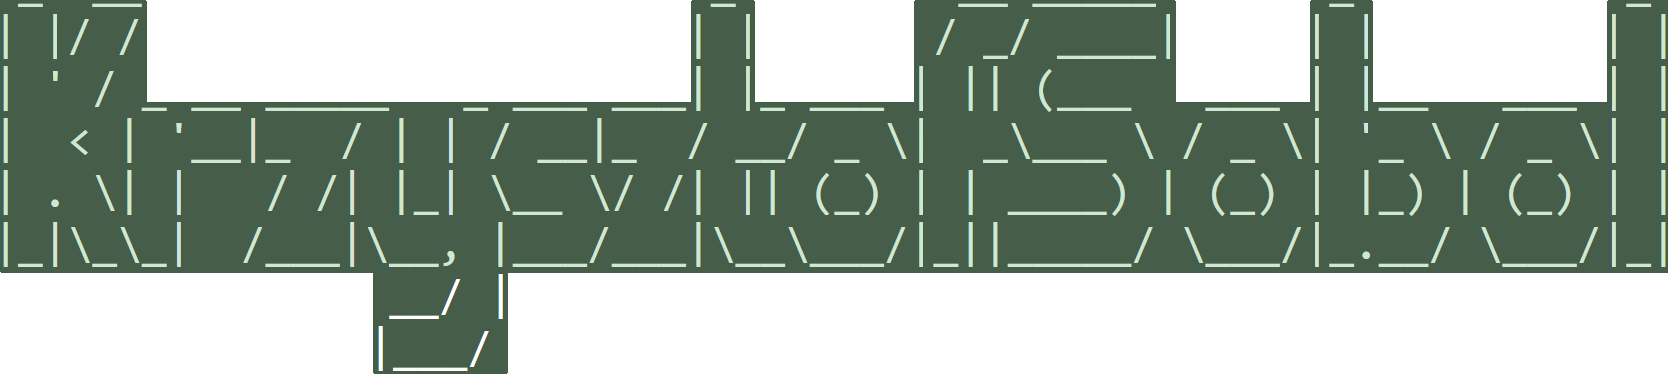
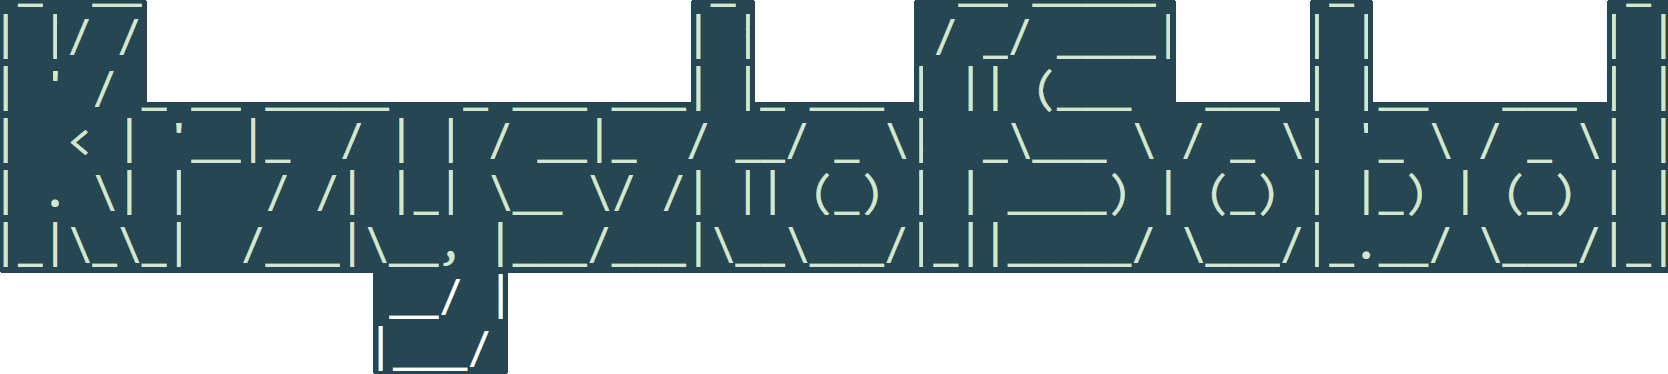
color overhaul

diff --git a/frontend/src/index.css b/frontend/src/index.css
@@ -1,5 +1,5 @@
 body{
-    background-color: #263428;
+    background-color: black; /* #263428 */
 }
 
 .map-container {
@@ -9,9 +9,9 @@ body{
 .map-container .title {
     position: absolute;
     width: 850px;
-    top: 50%;
+    top: 49%;
     left: 50%;
-    transform: translate(-50%, -50%);
+    transform: translate(-50%, -49%);
 }
 
 .linesContainer{
@@ -19,7 +19,7 @@ body{
     white-space: pre;
     font-size: 15px;
     margin: 0px;
-    background-color: #455d48;
+    background-color: #264653;
     border-radius: 40px;
     overflow: hidden;
 }
@@ -31,35 +31,35 @@ body{
 /* color of each letter */
 
 .letter-a {
-    color: #B0D9B1;
+    color: #38a3a5; /* #B0D9B1 */
 }
 
 .letter-b {
-    color: #B0D9B1;
+    color: #38a3a5; /* #B0D9B1 */
 }
 
 .letter-c{
-    color: #B0D9B1;
+    color: #38a3a5; /* #B0D9B1 */
 }
 
 .letter-d{
-    color: #B0D9B1;
+    color: #38a3a5; /* #B0D9B1 */
 }
 
 .letter-x{
-    color: #79AC78;
+    color: #4dbf9d; /* #79AC78 */
 }
 
 .letter-w{
-    color: #D0E7D2;
+    color: #22577a; /* #D0E7D2 */
 }
 
 .letter-o{
-    color: #B0D9B1;
+    color: #38a3a5; /* #B0D9B1 */
 }
 
 .letter-g{
-    color: #B0D9B1;
+    color: #247a91; /* #B0D9B1 */
 }
 
 .letter-a,

diff --git a/src/main/java/com/krzysztofsobol/cvwebsite/MapDataUtil.java b/src/main/java/com/krzysztofsobol/cvwebsite/MapDataUtil.java
@@ -8,7 +8,7 @@ public class MapDataUtil {
     public static LinkedList<Tile> getMapData(){
         LinkedList<Tile> tiles = new LinkedList<>();
 
-        Tile grass = new Tile('X', 200, 3, 3, 3, 3);
+        Tile grass = new Tile('X', 220, 3, 3, 3, 3);
         Tile sea = new Tile('?', 100, 1, 1, 1, 1);
 
         Tile coast = new Tile('A', 10, 3, 5, 1, 5);
